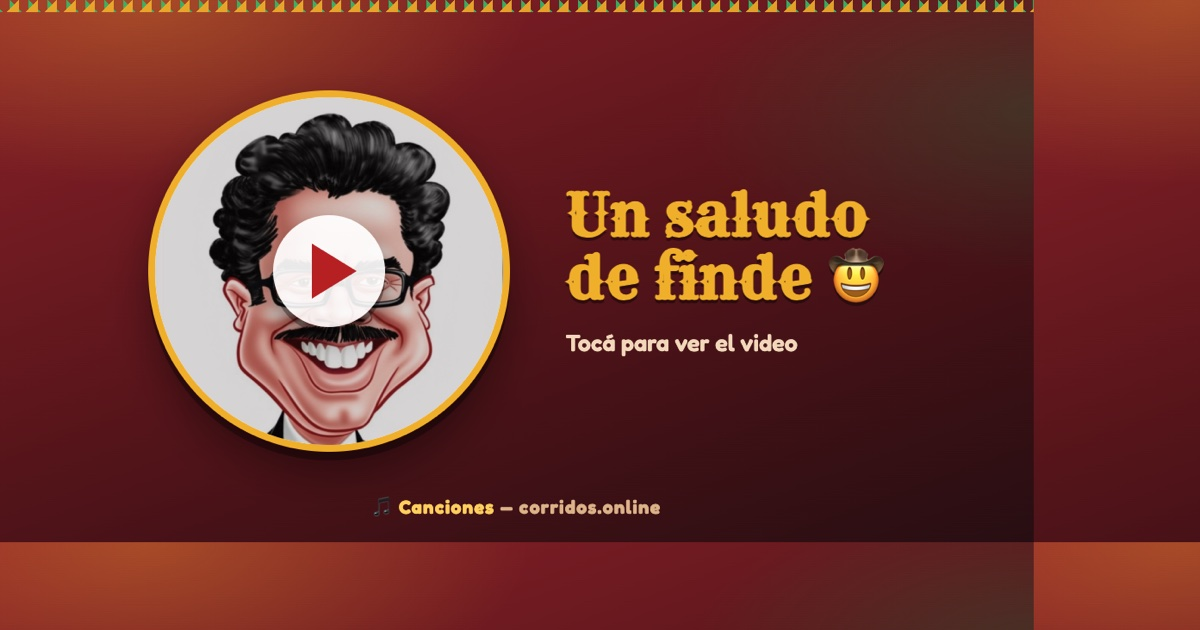
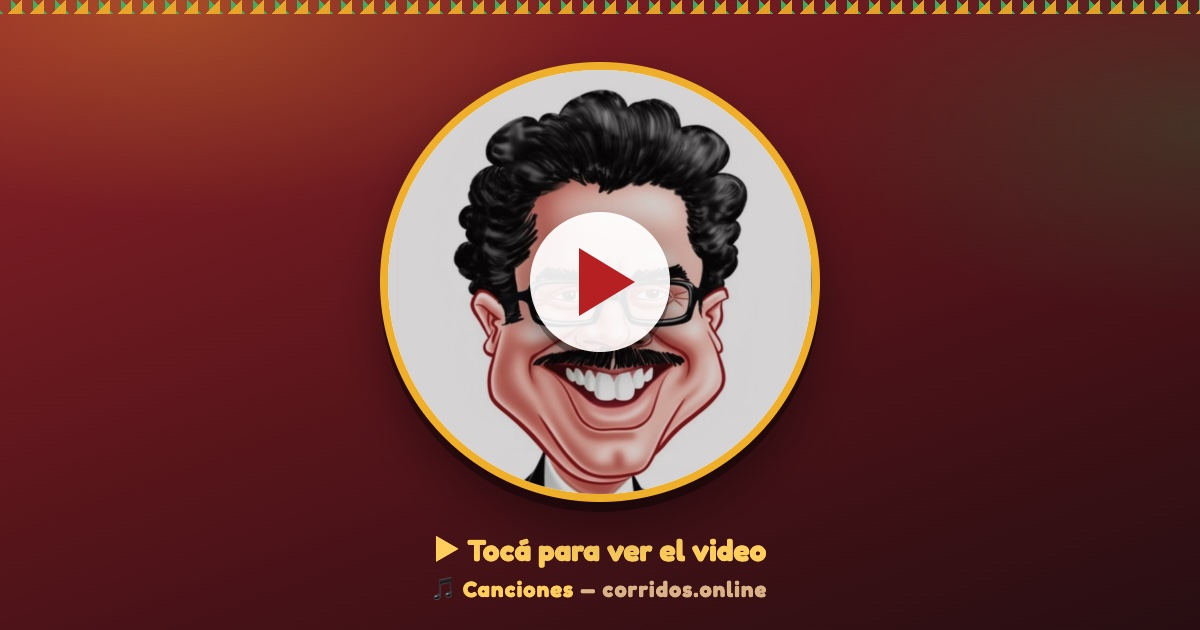
fix: sacar texto "Un saludo de finde" de la tarjeta y redirigir al dashboard
- La tarjeta (imagen OG + título) ya no dice "Un saludo de finde" —
  queda neutral, solo foto + play + "corridos.online".
- Al terminar el video, si el que lo ve ya es tenant logueado, lo
  manda directo a /dashboard en vez de dejarlo mirando la pantalla.
- El <video> ahora está siempre montado (no se crea recién al hacer
  click), para que el .play() sea síncrono dentro del gesto del
  click — antes, diferido a un requestAnimationFrame, el navegador a
  veces ya no lo contaba como parte del gesto del usuario y quedaba
  trabado en 0:00 en silencio.

Claude-Session: https://claude.ai/code/session_01WPaSXqzuEeLgqhX1m5pit6

diff --git a/app/saludofinde/SaludoFindeClient.tsx b/app/saludofinde/SaludoFindeClient.tsx
@@ -1,15 +1,33 @@
 'use client';
 import { useRef, useState } from 'react';
+import { useRouter } from 'next/navigation';
 
 export default function SaludoFindeClient() {
+  const router = useRouter();
   const [reproduciendo, setReproduciendo] = useState(false);
   const videoRef = useRef<HTMLVideoElement>(null);
 
+  // El <video> está SIEMPRE montado (nunca se crea recién al hacer click) —
+  // así el .play() se llama de forma síncrona, dentro del mismo gesto del
+  // click. Antes se montaba condicionalmente y el .play() quedaba diferido
+  // a un requestAnimationFrame, que a veces el navegador ya no contaba
+  // como parte del gesto del usuario y bloqueaba la reproducción en
+  // silencio (se quedaba trabado en 0:00).
   function reproducir() {
+    videoRef.current?.play();
     setReproduciendo(true);
-    // El <video> recién se monta al setear reproduciendo=true, así que el
-    // .play() tiene que esperar al siguiente tick para encontrar el nodo.
-    requestAnimationFrame(() => videoRef.current?.play());
+  }
+
+  // Si ya es tenant logueado (tiene la cookie de sesión), apenas termina
+  // el video lo dejamos directo en su dashboard en vez de quedarse mirando
+  // la pantalla — para alguien sin sesión, no pasa nada, se queda acá.
+  async function alTerminar() {
+    try {
+      const res = await fetch('/api/tenants/me');
+      if (res.ok) router.push('/dashboard');
+    } catch {
+      // Silencioso — se queda en esta pantalla si no se pudo confirmar la sesión.
+    }
   }
 
   return (
@@ -21,8 +39,6 @@ export default function SaludoFindeClient() {
         'linear-gradient(160deg, #9a1f2b 0%, #5c0f18 55%, #2c0a10 100%)',
       color: '#fdf3e0', fontFamily: 'system-ui, sans-serif', textAlign: 'center', padding: '1.5rem', gap: '1.25rem',
     }}>
-      <h1 style={{ fontSize: '1.6rem', margin: 0 }}>Un saludo de finde 🤠</h1>
-
       <div style={reproduciendo ? {
         // El video es vertical (celular) — nada de aspect-ratio cuadrado ni
         // object-fit: cover acá, porque recortaría cabeza o pies. Se deja
@@ -37,42 +53,40 @@ export default function SaludoFindeClient() {
         border: '6px solid #f2b705', boxShadow: '0 10px 0 rgba(0,0,0,0.35), 0 24px 48px rgba(0,0,0,0.4)',
         background: '#fdf3e0',
       }}>
-        {reproduciendo ? (
-          <video
-            ref={videoRef}
-            src="/saludofinde/video.mp4"
-            poster="/saludofinde/poster.png"
-            controls
-            playsInline
-            style={{ width: '100%', maxHeight: '75vh', display: 'block' }}
-          />
-        ) : (
+        <video
+          ref={videoRef}
+          src="/saludofinde/video.mp4"
+          poster="/saludofinde/poster.png"
+          controls={reproduciendo}
+          playsInline
+          onEnded={alTerminar}
+          style={reproduciendo
+            ? { width: '100%', maxHeight: '75vh', display: 'block' }
+            : { width: '100%', height: '100%', objectFit: 'cover', display: 'block' }}
+        />
+
+        {!reproduciendo && (
           <button
             type="button"
             onClick={reproducir}
             style={{
-              width: '100%', height: '100%', border: 'none', padding: 0, cursor: 'pointer',
-              background: `url('/saludofinde/poster.png') center/cover`,
-              position: 'relative',
+              position: 'absolute', inset: 0, width: '100%', height: '100%', border: 'none', padding: 0, cursor: 'pointer',
+              background: 'rgba(20,6,8,0.18)',
+              display: 'flex', alignItems: 'center', justifyContent: 'center',
             }}
             aria-label="Reproducir video"
           >
             <span style={{
-              position: 'absolute', inset: 0, display: 'flex', alignItems: 'center', justifyContent: 'center',
-              background: 'rgba(20,6,8,0.18)',
+              width: '28%', aspectRatio: '1 / 1', borderRadius: '50%',
+              background: 'linear-gradient(180deg, rgba(255,255,255,0.94), rgba(255,255,255,0.88))',
+              boxShadow: '0 6px 0 rgba(0,0,0,0.35), 0 12px 24px rgba(0,0,0,0.4)',
+              display: 'flex', alignItems: 'center', justifyContent: 'center',
             }}>
               <span style={{
-                width: '28%', aspectRatio: '1 / 1', borderRadius: '50%',
-                background: 'linear-gradient(180deg, rgba(255,255,255,0.94), rgba(255,255,255,0.88))',
-                boxShadow: '0 6px 0 rgba(0,0,0,0.35), 0 12px 24px rgba(0,0,0,0.4)',
-                display: 'flex', alignItems: 'center', justifyContent: 'center',
-              }}>
-                <span style={{
-                  width: 0, height: 0, marginLeft: '12%',
-                  borderTop: '18px solid transparent', borderBottom: '18px solid transparent',
-                  borderLeft: '28px solid #c0161f',
-                }} />
-              </span>
+                width: 0, height: 0, marginLeft: '12%',
+                borderTop: '18px solid transparent', borderBottom: '18px solid transparent',
+                borderLeft: '28px solid #c0161f',
+              }} />
             </span>
           </button>
         )}

diff --git a/app/saludofinde/page.tsx b/app/saludofinde/page.tsx
@@ -6,10 +6,10 @@ import SaludoFindeClient from './SaludoFindeClient';
 // play superpuesto, simulando una miniatura de video) para que al abrir
 // el link se vea la tarjeta y, adentro, el video de verdad.
 export const metadata: Metadata = {
-  title: 'Un saludo de finde 🤠',
+  title: 'corridos.online',
   description: '',
   openGraph: {
-    title: 'Un saludo de finde 🤠',
+    title: 'corridos.online',
     images: [{ url: '/saludofinde/og-image.jpg', width: 1200, height: 630, type: 'image/jpeg' }],
     url: 'https://corridos.online/saludofinde',
     siteName: 'Canciones',
@@ -17,7 +17,7 @@ export const metadata: Metadata = {
   },
   twitter: {
     card: 'summary_large_image',
-    title: 'Un saludo de finde 🤠',
+    title: 'corridos.online',
     images: ['/saludofinde/og-image.jpg'],
   },
 };
